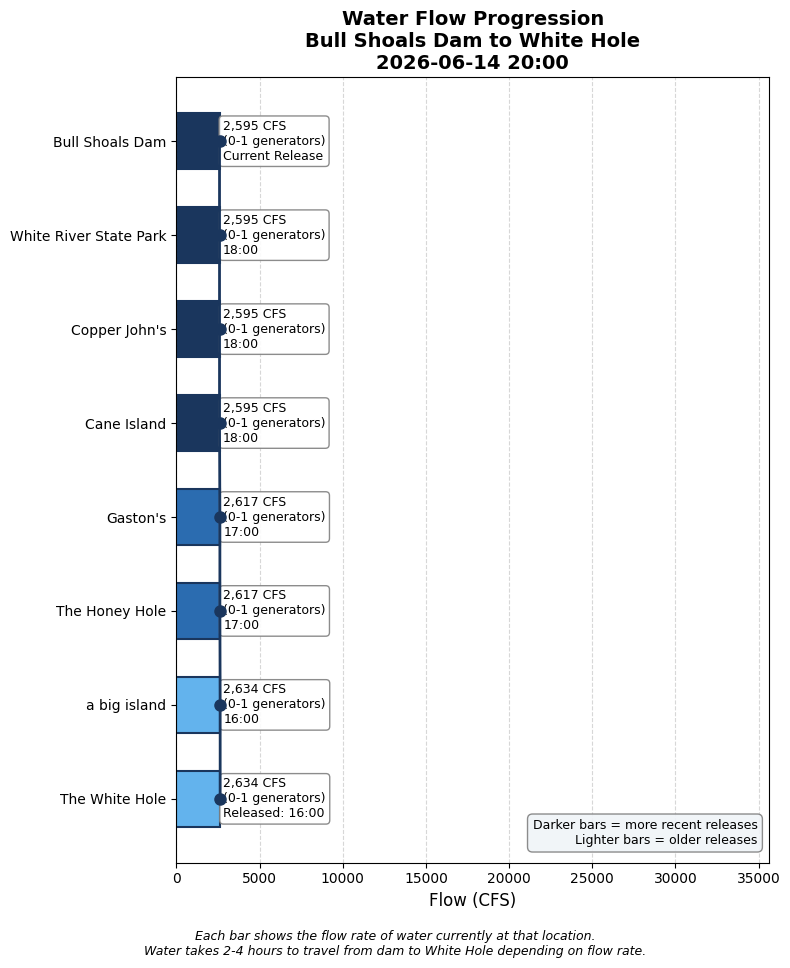
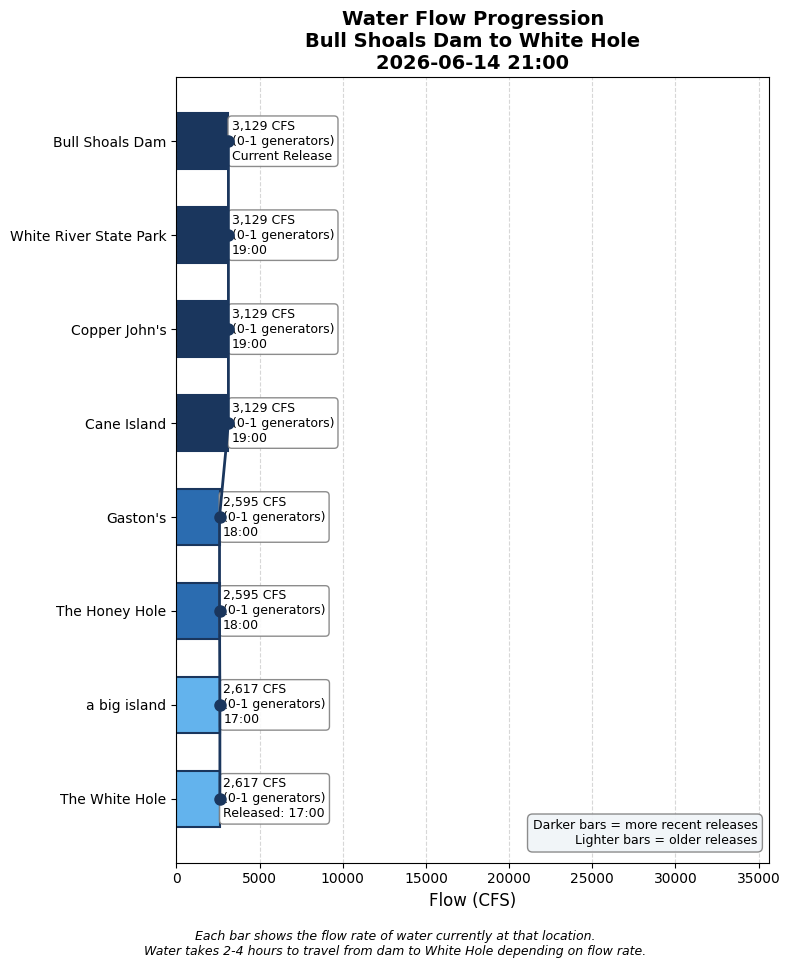
Update water conditions 2026-06-14 21:00

Changed region(s): [[0.2734, 0.093, 0.4253, 0.5579], [0.2734, 0.5888, 0.3342, 0.6508], [0.6684, 0.062, 0.6987, 0.093]]

diff --git a/white_hole_conditions.html b/white_hole_conditions.html
@@ -3,7 +3,7 @@
 <head>
     <meta charset="UTF-8">
     <meta name="viewport" content="width=device-width, initial-scale=1.0">
-    <title>White Hole Conditions - 2026-06-14 20:00</title>
+    <title>White Hole Conditions - 2026-06-14 21:00</title>
     <style>
         body {
             font-family: -apple-system, BlinkMacSystemFont, 'Segoe UI', Roboto, sans-serif;
@@ -148,7 +148,7 @@
 </head>
 <body>
     <h1>White Hole Current Conditions</h1>
-    <p class="subtitle">Sunday, June 14, 2026 at 08:00 PM</p>
+    <p class="subtitle">Sunday, June 14, 2026 at 09:00 PM</p>
 
     <!-- HEADLINE BANNER -->
     <div class="headline-banner">
@@ -160,7 +160,7 @@
     <!-- CURRENT CONDITIONS -->
     <div class="current-conditions">
         <h3>Current Conditions at White Hole</h3>
-        <div class="flow-display">2,634 CFS</div>
+        <div class="flow-display">2,617 CFS</div>
         <div class="generator-display">Equivalent to 0-1 generators</div>
         <div class="condition-pills">
             <span class="pill wading">Still Wadable</span>
@@ -212,39 +212,31 @@
                         </td>
                     </tr>
                 
-                    <tr style="background-color: #faf5ff; border-left: 4px solid #38a169;">
-                        <td style="padding: 10px; font-weight: bold;">8 PM</td>
-                        <td style="padding: 10px;">723 CFS<br><small style="color: #666;">(0-1 generators: 473 generation + 250 min flow)</small></td>
-                        <td style="padding: 10px;">~11:44 PM
-                            <span style="display: inline-block; margin-left: 6px; padding: 2px 8px; border-radius: 12px; font-size: 0.8em; background-color: #d1fae5; color: #065f46;">Excellent Wading</span>
-                        </td>
-                    </tr>
-                
             
                     
                 <tr><td colspan="3" style="padding: 8px 10px; font-size: 0.8em; font-weight: bold; color: #2b6cb0; text-transform: uppercase; letter-spacing: 0.05em; background-color: #ebf8ff;">Actual (dam readings)</td></tr>
                 
                     <tr style="background-color: #ebf8ff;">
-                        <td style="padding: 10px; font-weight: bold;">6:00 PM</td>
-                        <td style="padding: 10px;">2,595 CFS<br><small style="color: #666;">(0-1 generators)</small></td>
-                        <td style="padding: 10px;"><span style="color: #2b6cb0;">→ Arrives ~9:44 PM (in 103 min)</span></td>
+                        <td style="padding: 10px; font-weight: bold;">7:00 PM</td>
+                        <td style="padding: 10px;">3,129 CFS<br><small style="color: #666;">(0-1 generators)</small></td>
+                        <td style="padding: 10px;"><span style="color: #2b6cb0;">→ Arrives ~10:44 PM (in 103 min)</span></td>
                     </tr>
                 
                     <tr style="background-color: #ebf8ff;">
-                        <td style="padding: 10px; font-weight: bold;">5:00 PM</td>
-                        <td style="padding: 10px;">2,617 CFS<br><small style="color: #666;">(0-1 generators)</small></td>
-                        <td style="padding: 10px;"><span style="color: #2b6cb0;">→ Arrives ~8:44 PM (in 43 min)</span></td>
+                        <td style="padding: 10px; font-weight: bold;">6:00 PM</td>
+                        <td style="padding: 10px;">2,595 CFS<br><small style="color: #666;">(0-1 generators)</small></td>
+                        <td style="padding: 10px;"><span style="color: #2b6cb0;">→ Arrives ~9:44 PM (in 43 min)</span></td>
                     </tr>
                 
                     <tr style="background-color: #e6fffa;">
-                        <td style="padding: 10px; font-weight: bold;">4:00 PM</td>
-                        <td style="padding: 10px;">2,634 CFS<br><small style="color: #666;">(0-1 generators)</small></td>
+                        <td style="padding: 10px; font-weight: bold;">5:00 PM</td>
+                        <td style="padding: 10px;">2,617 CFS<br><small style="color: #666;">(0-1 generators)</small></td>
                         <td style="padding: 10px;"><span style="color: #319795; font-weight: bold;">← AT WHITE HOLE NOW</span></td>
                     </tr>
                 
                     <tr style="">
-                        <td style="padding: 10px; font-weight: bold;">1:00 PM</td>
-                        <td style="padding: 10px;">2,632 CFS<br><small style="color: #666;">(0-1 generators)</small></td>
+                        <td style="padding: 10px; font-weight: bold;">2:00 PM</td>
+                        <td style="padding: 10px;">2,618 CFS<br><small style="color: #666;">(0-1 generators)</small></td>
                         <td style="padding: 10px;"><span style="color: #718096;">passed</span></td>
                     </tr>
                 
@@ -274,9 +266,9 @@
         </summary>
         <div style="padding: 15px;">
             <ul>
-                <li>Latest dam reading: 2,595 CFS at 2026-06-14 18:00</li>
+                <li>Latest dam reading: 3,129 CFS at 2026-06-14 19:00</li>
                 <li>Travel time to White Hole: 3.7 hours at current flow</li>
-                <li>White Hole conditions based on dam reading from: 2026-06-14 16:00</li>
+                <li>White Hole conditions based on dam reading from: 2026-06-14 17:00</li>
             </ul>
         </div>
     </details>
@@ -298,6 +290,13 @@
                     </thead>
                     <tbody>
                         
+                <tr style="border-bottom: 1px solid #eee;">
+                    <td style="padding: 8px;">2026-06-14 19:00</td>
+                    <td style="padding: 8px; text-align: right;">3129</td>
+                    <td style="padding: 8px; text-align: right;">0.9</td>
+                    <td style="padding: 8px; text-align: right;">3.7</td>
+                </tr>
+                
                 <tr style="border-bottom: 1px solid #eee;">
                     <td style="padding: 8px;">2026-06-14 18:00</td>
                     <td style="padding: 8px; text-align: right;">2595</td>
@@ -361,13 +360,6 @@
                     <td style="padding: 8px; text-align: right;">3.7</td>
                 </tr>
                 
-                <tr style="border-bottom: 1px solid #eee;">
-                    <td style="padding: 8px;">2026-06-14 09:00</td>
-                    <td style="padding: 8px; text-align: right;">2637</td>
-                    <td style="padding: 8px; text-align: right;">0.8</td>
-                    <td style="padding: 8px; text-align: right;">3.7</td>
-                </tr>
-                
                     </tbody>
                 </table>
             </div>
@@ -375,7 +367,7 @@
         
 
     <div class="timestamp">
-        Data retrieved and processed on 2026-06-14 20:00:13
+        Data retrieved and processed on 2026-06-14 21:00:08
     </div>
 </body>
 </html>
